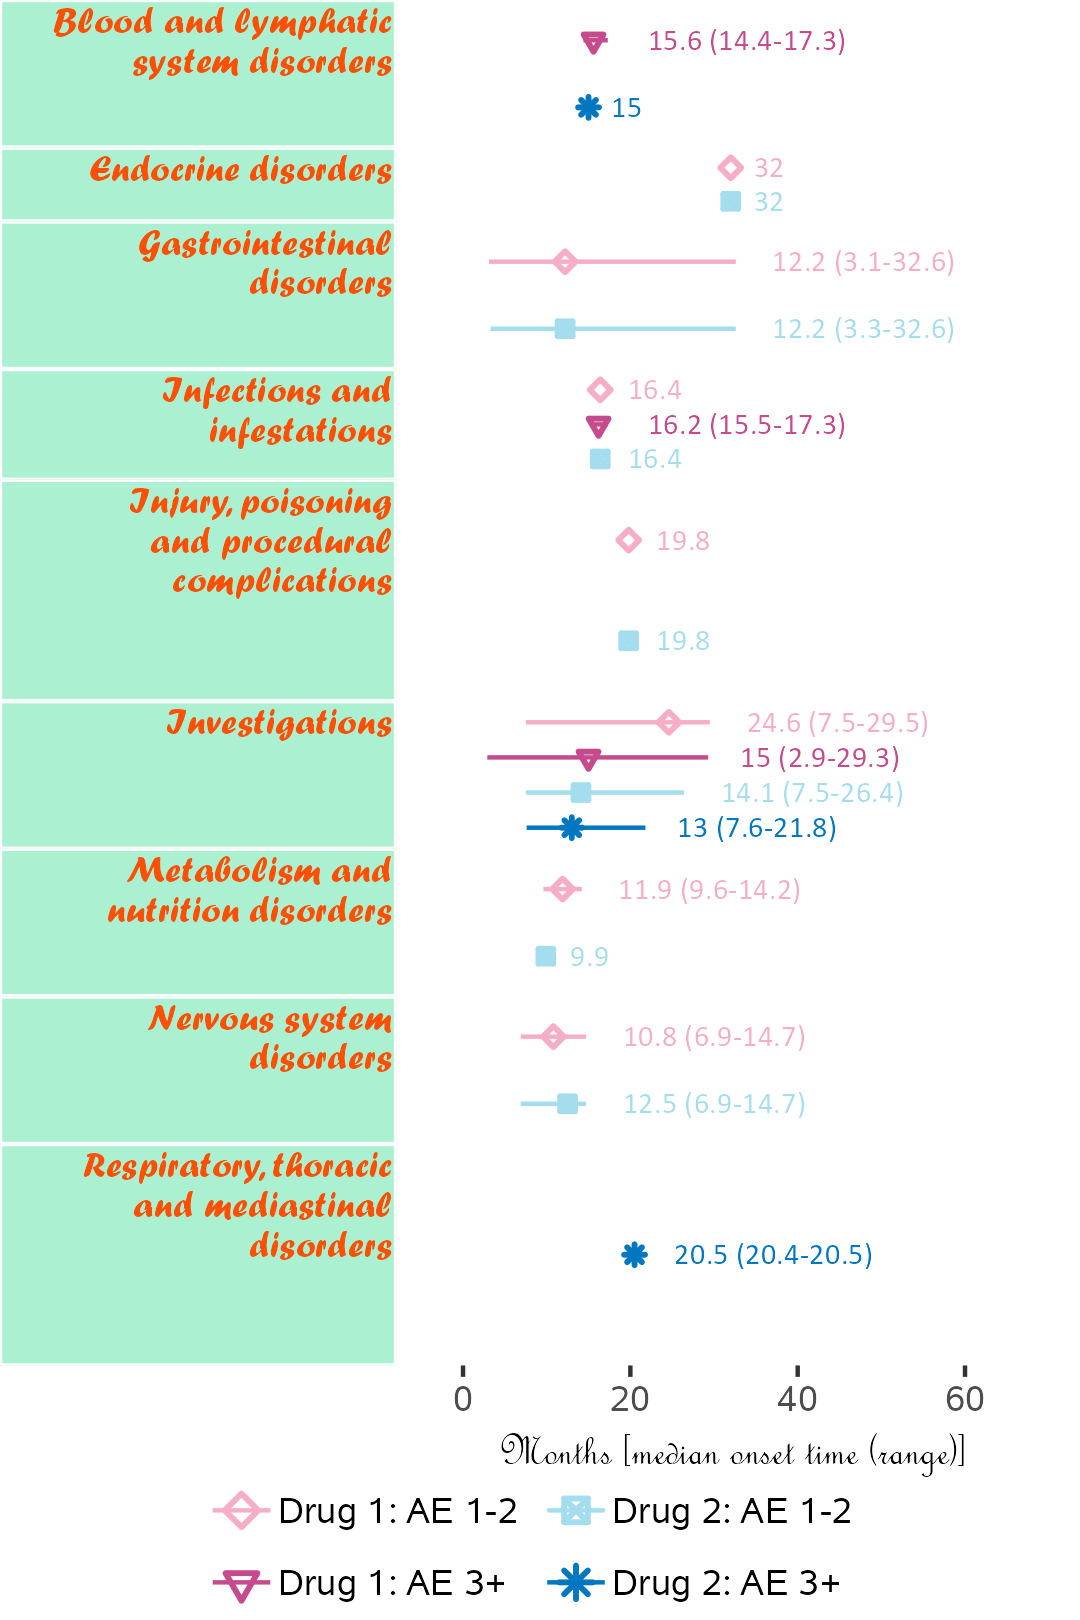
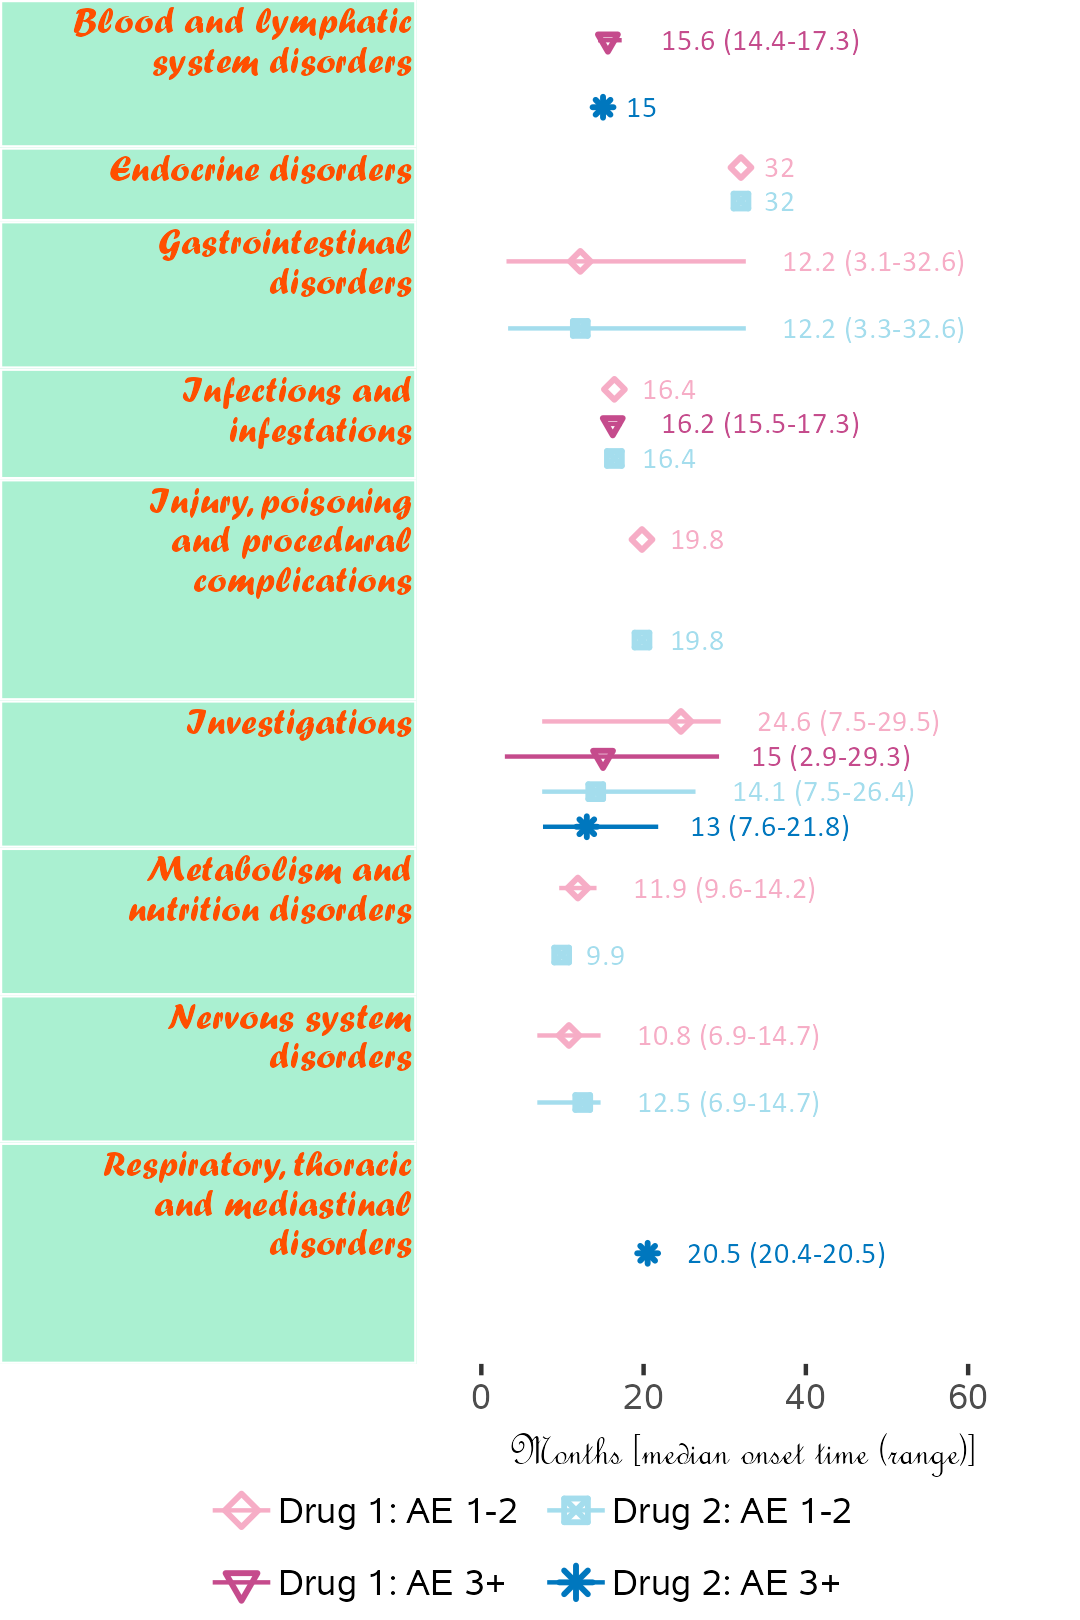
revise

diff --git a/README.md b/README.md
@@ -644,7 +644,7 @@ Median (Min,Max)
 <td style="text-align:right;">
 </td>
 <td style="text-align:right;">
-<span style="font-weight: bold;"><0.001</span>
+<span style="font-weight: bold;">\<0.001</span>
 </td>
 <td style="text-align:right;">
 0.22
@@ -653,7 +653,7 @@ Median (Min,Max)
 Chi Sq, Cramer’s V
 </td>
 <td style="text-align:right;">
-<span style="font-weight: bold;"><0.001</span>
+<span style="font-weight: bold;">\<0.001</span>
 </td>
 </tr>
 <tr>
@@ -980,7 +980,7 @@ Unrelated
 <td style="text-align:right;">
 </td>
 <td style="text-align:right;">
-<span style="font-weight: bold;"><0.001</span>
+<span style="font-weight: bold;">\<0.001</span>
 </td>
 <td style="text-align:right;">
 0.36
@@ -989,7 +989,7 @@ Unrelated
 Chi Sq, Cramer’s V
 </td>
 <td style="text-align:right;">
-<span style="font-weight: bold;"><0.001</span>
+<span style="font-weight: bold;">\<0.001</span>
 </td>
 </tr>
 <tr>
@@ -1775,7 +1775,7 @@ p <- ae_timeline_plot(subjID="Subject",subjID_ineligText=c("New Subject","Test")
                  include_ae_detail=F,
                  fonts=c("Forte","Gadugi","French Script MT","Albany AMT","Calibri"),
                  fontColours=c("#FF4F00","#FFDB58"),
-                 panelColours=c("#AAF0D1","#B31B1B"),
+                 panelColours=c("#AAF0D1",NA,"white"),
                  attribColours=c("#F6ADC6","#C54B8C","#A4DDED","#0077BE","#9AB973",
                                  "#01796F","#FFA343","#CC7722","#E0B0FF","#5A4FCF"),
                  attribSymbols=c(5,6,7,8,15,16,17,18,19,20),
@@ -1810,9 +1810,10 @@ p <- ae_timeline_plot(subjID="Subject",subjID_ineligText=c("01","11"),
                  ae_onsetDtVar="AE_ONSET_DT_INT",time_unit="month",
                  include_ae_detail=F,
                  fonts=c("Calibri","Albany AMT","Gadugi","French Script MT","Forte"),
-                 fontColours=c("#FFBF00"),
-                 panelColours=c("#DA3287"),
-                 attribColours=c("#9AB973","#01796F","#FFA343","#CC7722"),                                       attribSymbols=c(7,8,5,6,9,10),
+                 fontColours=c("#FFE135"),
+                 panelColours=c("#E52B50",NA,"#FFF5EE"),
+                 attribColours=c("#9AB973","#01796F","#FFA343","#CC7722"),   
+                 attribSymbols=c(7,8,5,6),
                  columnWidths=c(23))
 ggplot2::ggsave(paste("man/figures/ae_category_attribStart_timeline_plot", ".png", sep=""), p, width=4.2, height=5.4, device="png", scale = 1);
 ```
